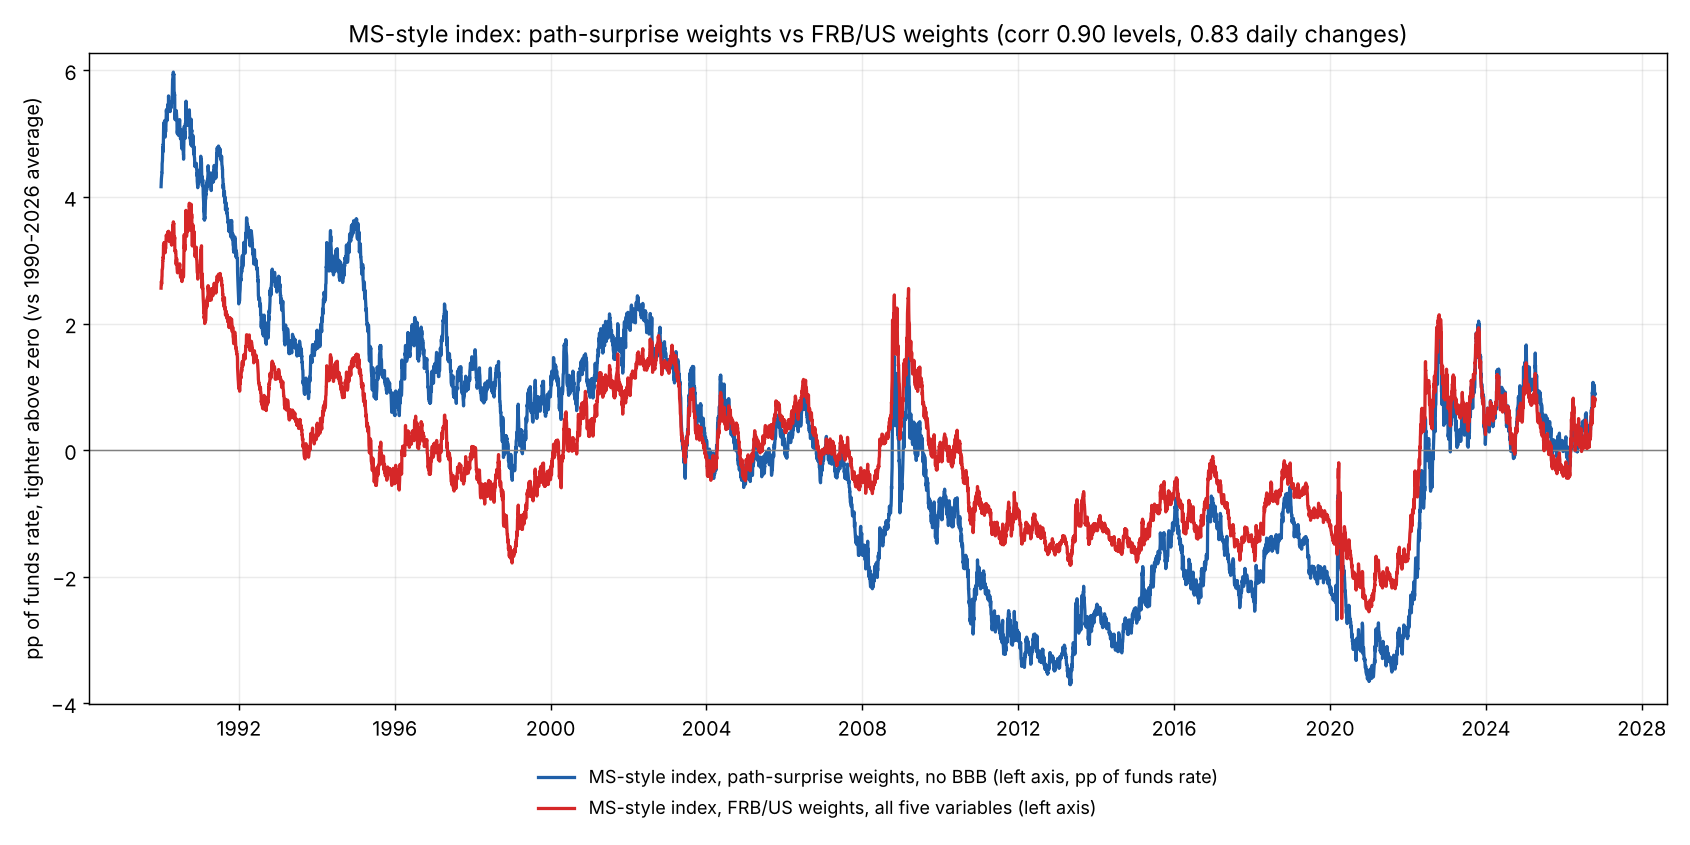
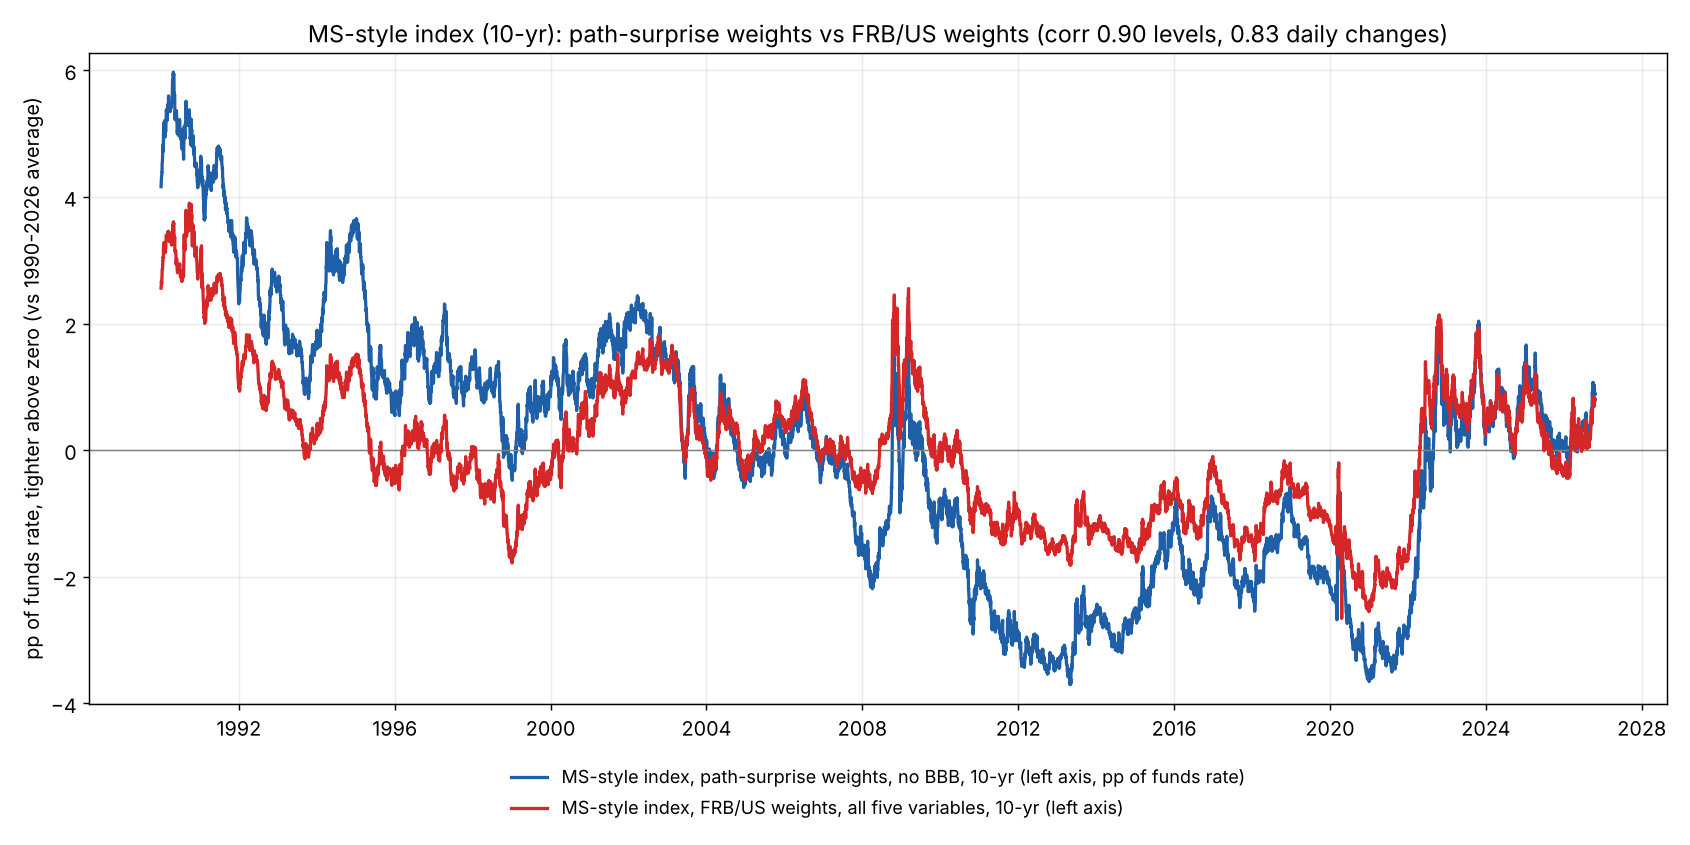
Charts with the real 10-year (Cleveland Fed expected inflation)
Claude-Session: https://claude.ai/code/session_019kTrQ64J9YbGMCvioBoMNo

Changed region(s): [[0.3077, 0.8923, 0.7385, 0.9846], [0.1846, 0.0308, 0.8615, 0.0615]]

diff --git a/experimental/path_fci/path_fci_charts.py b/experimental/path_fci/path_fci_charts.py
@@ -6,8 +6,9 @@ Path-surprise index = forward-regression (GLS) weights, each variable regressed 
 The right axis (GS FCI) is scaled so that its standard deviation and mean line up with the index on the left (same zero line, same spread), so the two
 move together on the page exactly as far as their correlation says.
 
-Usage:  python experimental/path_fci/path_fci_charts.py [--sample full|nonzlb]
-Outputs: path_fci_chart_ms_<sample>.png, path_fci_chart_gs_<sample>.png
+Usage:  python experimental/path_fci/path_fci_charts.py [--sample full|nonzlb] [--real10]
+(--real10: the 10-year is the real yield, DGS10 less Cleveland Fed expected inflation. The dollar is the real dollar and CAPE a real valuation in all versions.)
+Outputs: path_fci_chart_ms_<sample>[_real10].png, path_fci_chart_gs_<sample>[_real10].png
 """
 import os, argparse
 import numpy as np, pandas as pd
@@ -20,9 +21,10 @@ SETS = {"ms": ["10-yr", "Equities (ln CAPE)", "Dollar (ln real)", "Oil (ln real)
 
 
 def main():
-    ap = argparse.ArgumentParser(); ap.add_argument("--sample", default="full", choices=["full", "nonzlb"]); ap.add_argument("usmpd", nargs="?", default=P.USMPD)
+    ap = argparse.ArgumentParser(); ap.add_argument("--sample", default="full", choices=["full", "nonzlb"]); ap.add_argument("--real10", action="store_true", help="10-year = DGS10 less Cleveland Fed 10-year expected inflation"); ap.add_argument("usmpd", nargs="?", default=P.USMPD)
     a = ap.parse_args()
     ev = P.events(a.usmpd)
+    P.L.REAL10 = a.real10
     X, G = P.L.build()
     ev = ev[ev.Date.isin(X.index)].reset_index(drop=True)
     if a.sample == "nonzlb":
@@ -32,6 +34,8 @@ def main():
     sens = pd.read_csv(os.path.join(ROOT, "experimental", "ms_fci", "frbus_sensitivities.csv"), index_col=0)["ffr_eq_q4"]
     fr = {"10-yr": sens.rg10, "Equities (ln CAPE)": -sens.req, "Dollar (ln real)": sens.fpxr, "Oil (ln real)": sens.poil}
     lev = lambda w, names: sum(w[n] * P.VARS[n][1] * (X[P.VARS[n][0]] - X[P.VARS[n][0]].mean()) for n in names)
+    tag = "_real10" if a.real10 else ""
+    ten = "real 10-yr" if a.real10 else "10-yr"
     gs = G.fci.reindex(X.index)
     req = float(pd.read_csv(os.path.join(ROOT, "experimental", "ms_fci", "frbus_sensitivities.csv"), index_col=0).loc["req", "unit_size"])
     ms_frbus = P.L.level(X, sens.to_dict(), req).Total      # the MS-style index as built in experimental/ms_fci: five variables, FRB/US q4 weights
@@ -46,14 +50,14 @@ def main():
         print(f"  correlation with {'MS FRB/US index' if key == 'ms' else 'GS FCI'}: levels {np.corrcoef(idx, other)[0, 1]:.2f}, daily changes {idx.diff().corr(other.diff()):.2f}; "
               f"latest {idx.iloc[-1]:+.2f} pp" + (f" vs {ms_frbus.iloc[-1]:+.2f}" if key == "ms" else ""))
         fig, ax = plt.subplots(figsize=(13, 6.5))
-        ax.plot(idx.index, idx, color="#1f5fa8", lw=1.8, label=f"{key.upper()}-style index, path-surprise weights, no BBB (left axis, pp of funds rate)")
+        ax.plot(idx.index, idx, color="#1f5fa8", lw=1.8, label=f"{key.upper()}-style index, path-surprise weights, no BBB, {ten} (left axis, pp of funds rate)")
         ax.axhline(0, color="gray", lw=0.8)
         ax.set_ylabel("pp of funds rate, tighter above zero (vs 1990-2026 average)", fontsize=11)
         if key == "ms":
-            ax.plot(ms_frbus.index, ms_frbus, color="#d62728", lw=1.8, label="MS-style index, FRB/US weights, all five variables (left axis)")
+            ax.plot(ms_frbus.index, ms_frbus, color="#d62728", lw=1.8, label=f"MS-style index, FRB/US weights, all five variables, {ten} (left axis)")
             ax.set_ylim(min(idx.min(), ms_frbus.min()) - 0.3, max(idx.max(), ms_frbus.max()) + 0.3)
             ax.legend(loc="upper center", bbox_to_anchor=(0.5, -0.07), ncol=1, fontsize=10, frameon=False)
-            title = f"MS-style index: path-surprise weights vs FRB/US weights (corr {np.corrcoef(idx, ms_frbus)[0, 1]:.2f} levels, {idx.diff().corr(ms_frbus.diff()):.2f} daily changes)"
+            title = f"MS-style index ({ten}): path-surprise weights vs FRB/US weights (corr {np.corrcoef(idx, ms_frbus)[0, 1]:.2f} levels, {idx.diff().corr(ms_frbus.diff()):.2f} daily changes)"
         else:
             k = gs.std() / idx.std()
             gl = (gs - gs.mean()) / k
@@ -64,9 +68,9 @@ def main():
             b.set_ylim(gs.mean() + k * lo, gs.mean() + k * hi); b.set_ylabel("GS FCI", fontsize=11); b.tick_params(labelsize=11)
             h1, l1 = ax.get_legend_handles_labels(); h2, l2 = b.get_legend_handles_labels()
             ax.legend(h1 + h2, l1 + l2, loc="upper center", bbox_to_anchor=(0.5, -0.07), ncol=1, fontsize=10, frameon=False)
-            title = f"GS-style index: path-surprise weights vs GS FCI (corr {np.corrcoef(idx, gs)[0, 1]:.2f} levels, {idx.diff().corr(gs.diff()):.2f} daily changes)"
+            title = f"GS-style index ({ten}): path-surprise weights vs GS FCI (corr {np.corrcoef(idx, gs)[0, 1]:.2f} levels, {idx.diff().corr(gs.diff()):.2f} daily changes)"
         ax.set_title(title, fontsize=13); ax.grid(alpha=0.25); ax.tick_params(labelsize=11)
-        fig.tight_layout(); fig.savefig(os.path.join(HERE, f"path_fci_chart_{key}_{a.sample}.png"), dpi=130)
+        fig.tight_layout(); fig.savefig(os.path.join(HERE, f"path_fci_chart_{key}_{a.sample}{tag}.png"), dpi=130)
 
 
 if __name__ == "__main__":
